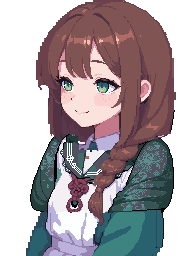
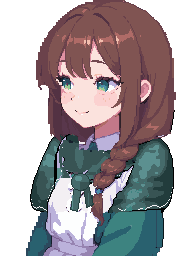
Mira's shawl: smooth teal in four shades with a light wave along the hem, tied in a knot of its own ends; cord, pendant and white lines gone

diff --git a/game/art/NOTES.md b/game/art/NOTES.md
@@ -29,6 +29,8 @@
 - **5 婕焰右耳後面透出背景**：在 `portrait.png` 上找出耳朵和右邊馬尾之間、左邊是頭右邊是馬尾的那些透明格（844 格，x 128–161、y 70–139），先填暗紅，再只對那一塊局部重繪（強度 0.55，三個種子挑後腦頭髮最自然、帶幾條髮絲的那張），換成她色盤的顏色。同一批像素蓋回六張差分和兩個姿勢（只蓋在和舊一般那張相同或透明的格子上）。`bun` 的右邊是另一種髮型（散下來的髮束），把同一塊蓋上去會變成一塊一塊的、還多一顆浮點，所以照 README 不蓋 `bun`，它耳後的空隙留著。
 - **5 蜜拉右肩荷葉邊的鋸齒**：沿右肩外緣（x 156–182、y 154–200）往內外各 3 格做遮罩，局部重繪（強度 0.5，三個種子都變平順，選輪廓最清楚的一張），換成她色盤的顏色，61 格；蓋回一般那張和 10 張差分（`shawl` 那七張那一肩是披肩，不用蓋）。
 
+- **6 蜜拉 `shawl`**：胸前先用模型試一次「披肩兩端打結」（以填好藍綠的底局部重繪，強度 0.85），四張都把胸前畫成一大片偏紫褐的布，不是藍綠披肩，所以改用程式畫：紅繩和圓墜子拿掉（露出一般那張的圍裙），左胸那塊白色線條換成披肩的深藍綠，在兩片前襟交會的地方畫一個圓圓的結（上左亮、下右暗、深色輪廓）和兩條垂下來的尾端。披肩本身的碎點：把披肩的顏色（含之前當蕾絲點用的灰紫）依周圍的平均亮度重新分成四階藍綠，再清掉單獨的點，變成大塊平順的明暗；只有下緣（每片披肩最下面那一排往上兩格）沿著邊畫一條上下起伏的淺色波浪線（用圍裙的白，不另外加色）。`shawl` 的六張表情重新用現在的一般臉、`smile`、`shy` 和腹黑四張蓋上去，所以眼睛也是第 0 項的新版。
+
 ## 總結：第三輪（上一輪要重做的地方）
 
 README「下一輪：上一輪要重做的地方」清單全部做完，沒有跳過的項目。每做完一項就提交並推上 `ccr-62025098-zk9541`。全部只用本機 ComfyUI，只動 `game/art/` 底下、清單列到的圖。
